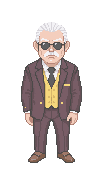
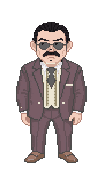
Put Don Eraptado in a barong, with black hair and a heavier build
The generation trial is spent, so this edits the sprite he already has
rather than asking for a new one. Silver hair and moustache go black, the
maroon three-piece becomes a cream barong tagalog with an embroidered
placket, the trousers go black, and the figure is widened.

Every rule is a fraction of the frame's own bounding box, not an absolute
row, because his attack clip uses the west rotation and his hit clip is
vertically offset -- a rule pinned to absolute rows would recolour the
wrong band on half of the sixteen frames.

Two details carry the barong. The waistcoat and necktie are removed
first, because a barong is one untucked shirt and the embroidery cannot
read as embroidery while there is trim under it. Then the hard black V of
the jacket opening is dissolved, but only across the chest columns --
softening the whole torso would also eat the lines that separate the arms
from the body.

Also adds tools/chapter2/verify_art.gd, a headless check that every rival
in both chapters resolves each clip frame and portrait. Run after any art
swap; it catches a dangling path, which shows up in-game as a console
error and a rival frozen on one frame.

Changed region(s): [[0.1531, 0.1111, 0.8878, 0.9167]]

diff --git a/tools/chapter2/reskin_don.py b/tools/chapter2/reskin_don.py
@@ -1,0 +1,176 @@
+# -*- coding: utf-8 -*-
+"""Re-skins Don Eraptado: barong, black hair, black trousers, heavier build.
+
+The PixelLab trial is spent, so this edits the generated sprite rather than
+asking for a new one. Every rule is expressed as a fraction of the FRAME'S OWN
+bounding box rather than an absolute y, because the attack clip uses the west
+rotation and the hit clip is offset -- a rule pinned to absolute rows would
+recolour the wrong band on half the frames.
+
+Three bands do the work:
+
+    0.00 - 0.28   head      near-white here is hair and moustache -> black
+    0.28 - 0.62   torso     maroon here is the jacket -> barong cream
+    0.62 - 1.00   legs      maroon here is trousers -> black
+
+The shirt collar and cuffs are also near-white, which is why the hair rule is
+banded rather than a flat palette swap: below the chin, near-white is cloth and
+must stay.
+"""
+import glob
+import os
+import re
+
+from PIL import Image
+
+ROOT = r"D:\klhgamefinal\assets\images\characters"
+PORTRAITS = r"D:\klhgamefinal\assets\images\portraits"
+SLUG = "don_eraptado"
+CLIPS = ("idle", "attack", "hit")
+
+HEAD_END = 0.28      # bottom of the head, as a fraction of bbox height
+HEM = 0.62           # where the barong stops and the trousers start
+WIDEN = 1.16         # how much heavier he gets
+
+# Barong tagalog: pina cloth is warm off-white, and it is sheer, so the
+# shading is gentler than a suit's. Three tiers keyed off the jacket's own.
+BARONG = [(236, 230, 212), (206, 197, 172), (170, 160, 136)]
+TROUSERS = [(38, 36, 42), (24, 23, 28), (14, 13, 16)]
+HAIR = [(38, 33, 38), (22, 19, 22)]
+EMBROIDERY = (150, 139, 108)   # tonal thread: visible on cream, never a stripe
+
+
+def is_maroon(p):
+    r, g, b, a = p
+    return a > 100 and 25 <= r <= 95 and g < 50 and r > g and r >= b - 6
+
+
+def is_pale(p):
+    r, g, b, a = p
+    return a > 100 and min(r, g, b) > 178 and (max(r, g, b) - min(r, g, b)) < 46
+
+
+def is_gold(p):
+    r, g, b, a = p
+    return a > 100 and r > 150 and g > 110 and b < 130 and r - b > 60
+
+
+def is_dark(p):
+    r, g, b, a = p
+    return a > 100 and max(r, g, b) < 70
+
+
+def tier(p, tiers):
+    """Pick a replacement shade by how dark the source pixel was, so the
+    original shading survives the swap instead of flattening to one colour."""
+    lum = 0.299 * p[0] + 0.587 * p[1] + 0.114 * p[2]
+    if lum > 55:
+        return tiers[0]
+    if lum > 34:
+        return tiers[1]
+    return tiers[-1]
+
+
+def reskin(im):
+    bb = im.getbbox()
+    if bb is None:
+        return im
+    top, height = bb[1], bb[3] - bb[1]
+    cx = (bb[0] + bb[2]) // 2
+    head_end = top + height * HEAD_END
+    hem = top + height * HEM
+
+    px = im.load()
+    out = im.copy()
+    op = out.load()
+    for y in range(im.height):
+        for x in range(im.width):
+            p = px[x, y]
+            if p[3] < 40:
+                continue
+            if y < head_end:
+                if is_pale(p):                       # hair and moustache
+                    # Keep the highlight/shadow split the white hair already
+                    # had, just inverted into black: the brightest silver
+                    # becomes the lighter black, not a flat fill.
+                    lum = 0.299 * p[0] + 0.587 * p[1] + 0.114 * p[2]
+                    op[x, y] = (HAIR[0] if lum > 215 else HAIR[1]) + (p[3],)
+            elif is_maroon(p):
+                shades = BARONG if y < hem else TROUSERS
+                op[x, y] = tier(p, shades) + (p[3],)
+            elif y < hem and is_gold(p):
+                # The waistcoat. A barong is a single untucked shirt, so the
+                # chest has to become one continuous panel of cloth before the
+                # embroidery can read as embroidery rather than as trim.
+                op[x, y] = tier(p, BARONG) + (p[3],)
+            elif y < hem and abs(x - cx) <= 4 and is_dark(p):
+                op[x, y] = BARONG[1] + (p[3],)      # the necktie
+
+    # Dissolve the lapels. What still reads as a suit is the hard black V of
+    # the jacket opening; a barong has no opening at all. Only the CHEST
+    # columns are softened -- widening this to the whole torso would also eat
+    # the lines separating the arms from the body.
+    chest = int((bb[2] - bb[0]) * 0.26)
+    for y in range(int(head_end), int(hem)):
+        for x in range(cx - chest, cx + chest + 1):
+            if 0 <= x < im.width and is_dark(px[x, y]):
+                op[x, y] = BARONG[2] + (px[x, y][3],)
+    return out
+
+
+def add_placket(im):
+    """The embroidered panel down a barong's chest. Drawn from the collar to
+    the hem on the two columns either side of centre, which is where the
+    original sprite carried its waistcoat -- so it lands on cloth, not on a
+    hand or a lapel."""
+    bb = im.getbbox()
+    top, height = bb[1], bb[3] - bb[1]
+    cx = (bb[0] + bb[2]) // 2
+    px = im.load()
+    for y in range(int(top + height * 0.33), int(top + height * 0.60)):
+        for dx in (-4, -3, 3, 4):
+            x = cx + dx
+            if not (0 <= x < im.width) or px[x, y][3] < 100:
+                continue
+            if px[x, y][0] < 130:            # off the cloth (hand, shadow)
+                continue
+            # Two vertical guide lines with a stitch every third row, which is
+            # what makes it read as needlework rather than as a painted stripe.
+            solid = abs(dx) == 4 or (y - top) % 3 == 0
+            px[x, y] = (EMBROIDERY if solid else BARONG[1]) + (px[x, y][3],)
+    return im
+
+
+def widen(im):
+    """Heavier build. A horizontal-only NEAREST scale duplicates columns rather
+    than blending them, so the result stays hard-edged pixel art; the frame is
+    then re-centred on the original figure so the feet do not drift."""
+    bb = im.getbbox()
+    cx = (bb[0] + bb[2]) / 2.0
+    wide = im.resize((int(im.width * WIDEN), im.height), Image.NEAREST)
+    out = Image.new("RGBA", im.size, (0, 0, 0, 0))
+    out.paste(wide, (int(round(cx - cx * WIDEN)), 0), wide)
+    return out
+
+
+if __name__ == "__main__":
+    total = 0
+    for clip in CLIPS:
+        folder = os.path.join(ROOT, "%s_gen_%s" % (SLUG, clip))
+        files = sorted(glob.glob(os.path.join(folder, "frame_*.png")),
+                       key=lambda p: int(re.search(r"(\d+)\.png$", p).group(1)))
+        for path in files:
+            im = Image.open(path).convert("RGBA")
+            im = widen(add_placket(reskin(im)))
+            im.save(path)
+            total += 1
+        print("%-8s %d frames" % (clip, len(files)))
+
+    idle0 = Image.open(os.path.join(ROOT, "%s_gen_idle" % SLUG, "frame_0.png"))
+    bb = idle0.getbbox()
+    side = max(int((bb[3] - bb[1]) * 0.55), 48)
+    cx = (bb[0] + bb[2]) // 2
+    idle0.crop((cx - side // 2, bb[1] - 4, cx - side // 2 + side,
+                bb[1] - 4 + side)).resize((128, 128), Image.NEAREST).save(
+        os.path.join(PORTRAITS, "enemy_%s.png" % SLUG))
+    print("reskinned %d frames + portrait" % total)
